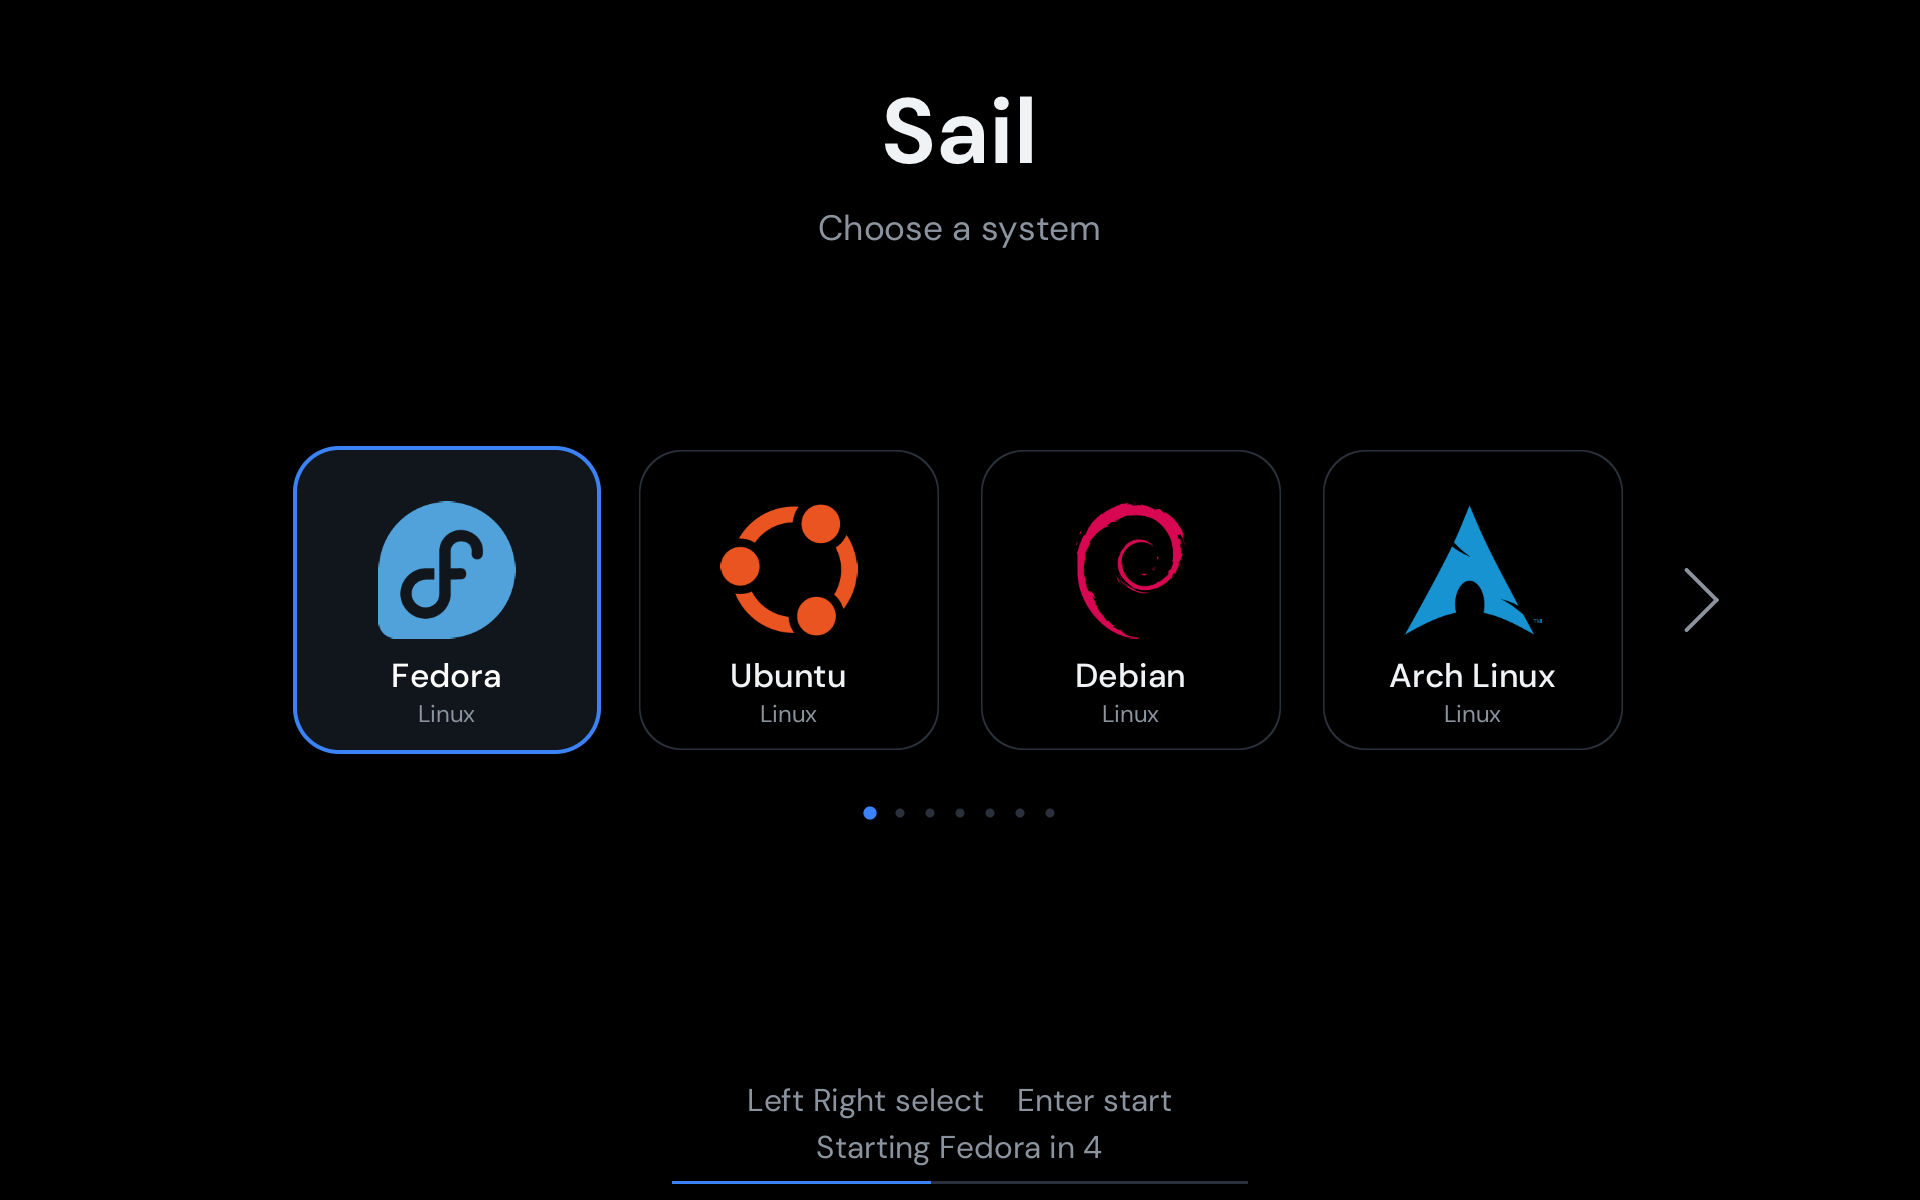
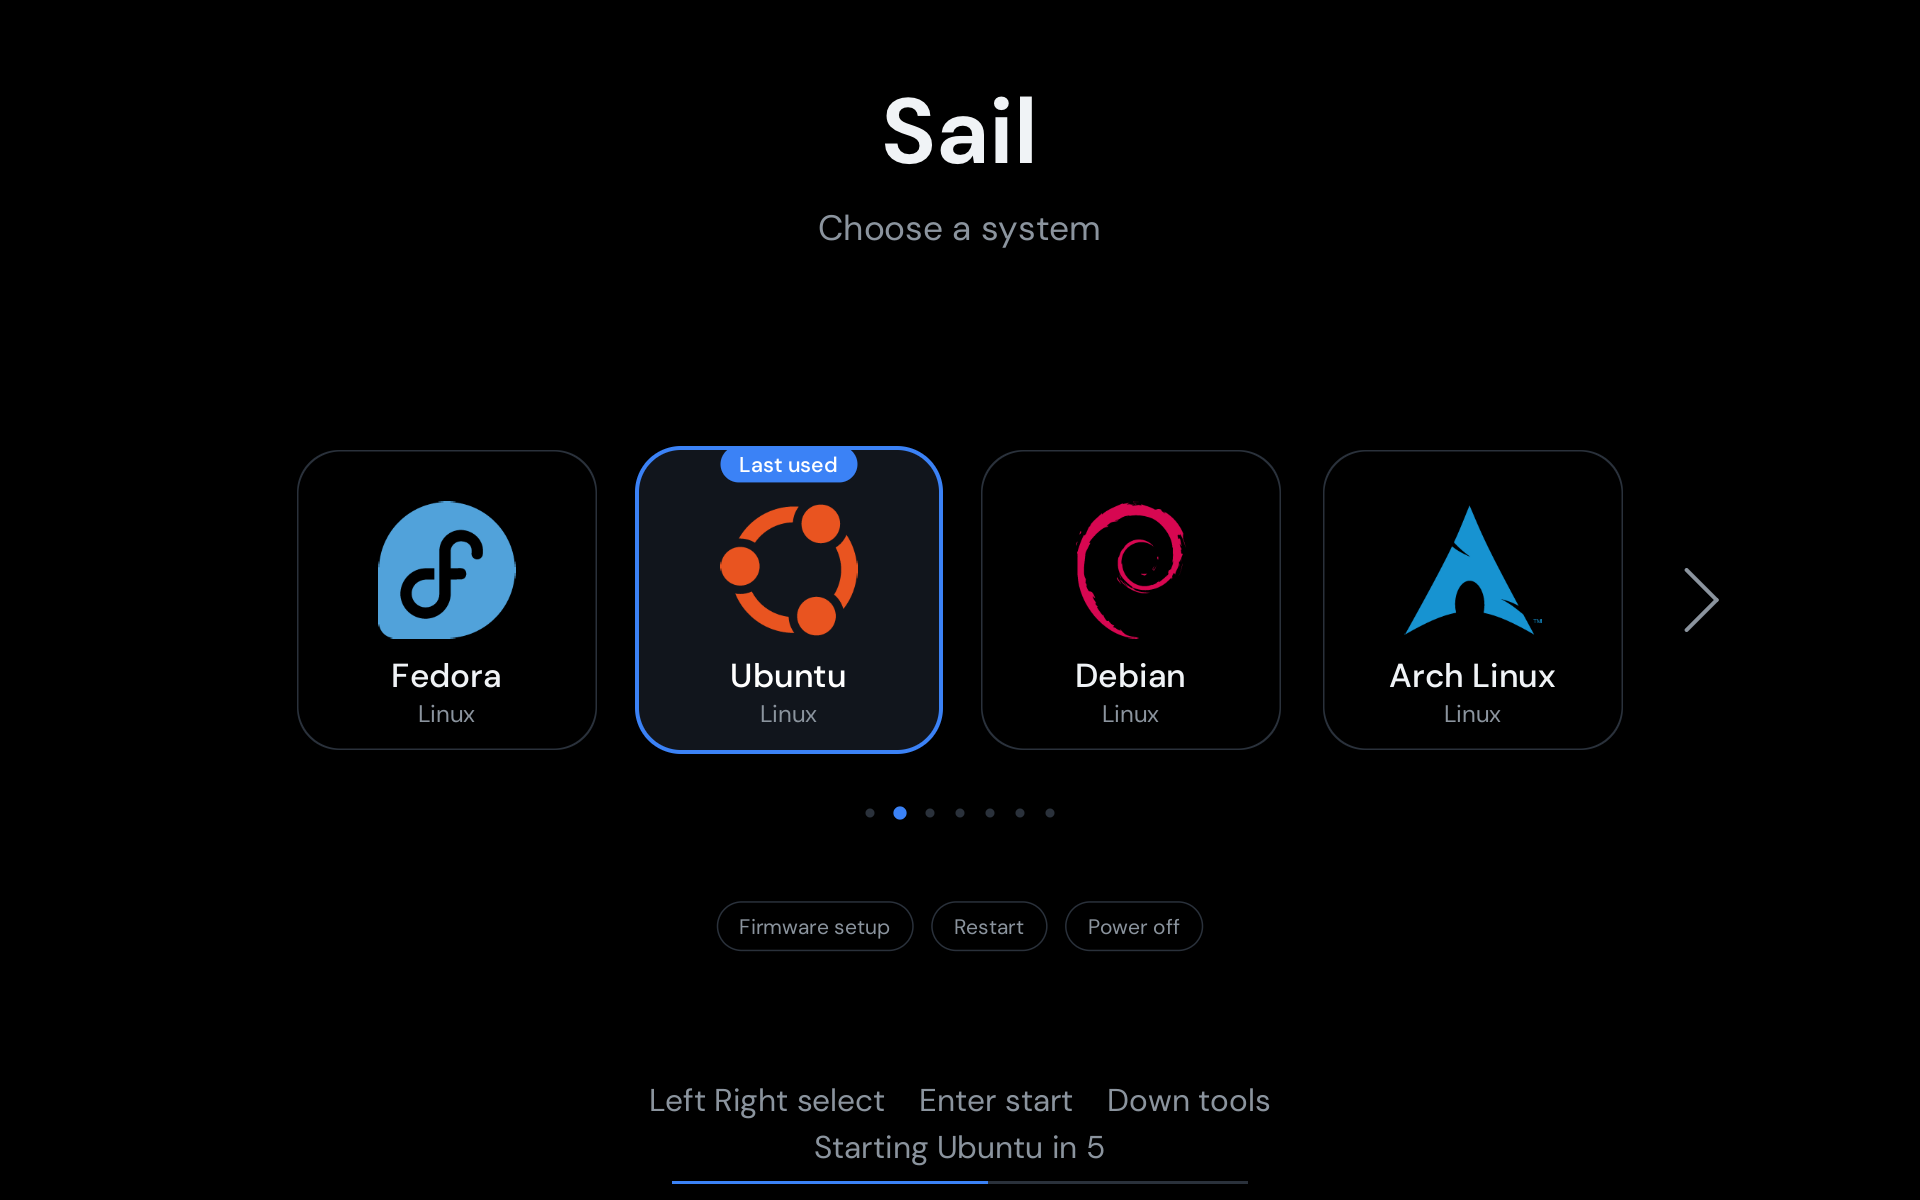
Last used marker, tool row (firmware setup, restart, power off)

diff --git a/src/main.rs b/src/main.rs
@@ -332,7 +332,7 @@ fn make_layout(w: usize, h: usize, n: usize) -> Layout {
     }
 }
 
-fn draw_tile(c: &mut Canvas, f: &Fonts, e: &Entry, x: f32, y: f32, tile: f32, on: bool) {
+fn draw_tile(c: &mut Canvas, f: &Fonts, e: &Entry, x: f32, y: f32, tile: f32, on: bool, last: bool) {
     let rad = tile * 0.14;
     if on {
         c.rounded(x - 4.0, y - 4.0, tile + 8.0, tile + 8.0, rad + 4.0, ACCENT);
@@ -346,16 +346,24 @@ fn draw_tile(c: &mut Canvas, f: &Fonts, e: &Entry, x: f32, y: f32, tile: f32, on
     let npx = (tile / 9.0).max(14.0);
     c.centered(&f.medium, e.name, cx, y + tile * 0.68, npx, if on { 0xffffff } else { TEXT });
     c.centered(&f.regular, e.note, cx, y + tile * 0.68 + npx * 1.35, npx * 0.72, MUTED);
+    if last {
+        let px = (tile / 14.0).max(11.0);
+        let tw = Canvas::measure(&f.medium, "Last used", px);
+        let (pw, ph) = (tw + px * 1.8, px * 1.7);
+        c.rounded(cx - pw / 2.0, y - 4.0, pw, ph, ph / 2.0, ACCENT);
+        c.text(&f.medium, "Last used", cx - tw / 2.0, y - 4.0 + (ph - px) / 2.0 - px * 0.12, px, 0xffffff);
+    }
 }
 
-fn make_sprites(f: &Fonts, items: &[Entry], l: &Layout) -> Vec<[Vec<BltPixel>; 2]> {
+fn make_sprites(f: &Fonts, items: &[Entry], l: &Layout, last: Option<usize>) -> Vec<[Vec<BltPixel>; 2]> {
     items
         .iter()
-        .map(|e| {
+        .enumerate()
+        .map(|(idx, e)| {
             let mut out = [Vec::new(), Vec::new()];
             for (k, on) in [false, true].into_iter().enumerate() {
                 let mut c = Canvas::new(l.side, l.side);
-                draw_tile(&mut c, f, e, 4.0, 4.0, l.tile as f32, on);
+                draw_tile(&mut c, f, e, 4.0, 4.0, l.tile as f32, on, last == Some(idx));
                 out[k] = c.buf;
             }
             out
@@ -444,16 +452,52 @@ fn paint_arrows_dots(c: &mut Canvas, l: &Layout, n: usize, offset: usize, select
     [(lx, ay, aw, ah), (rx, ay, aw, ah), (dx, dy, dw, (step * 2.0) as usize)]
 }
 
+const DOCK: [&str; 3] = ["Firmware setup", "Restart", "Power off"];
+
+fn dock_geometry(l: &Layout) -> (f32, f32) {
+    ((l.y0 + l.tile) as f32 + l.gap as f32 * 3.6, l.h as f32 / 24.0)
+}
+
+fn footer_top(l: &Layout) -> f32 {
+    let (y, h) = dock_geometry(l);
+    y + h + l.gap as f32 * 0.8
+}
+
+fn paint_dock(c: &mut Canvas, f: &Fonts, l: &Layout, focus: Option<usize>) -> (usize, usize, usize, usize) {
+    let (y, h) = dock_geometry(l);
+    let (rx, rw) = ((l.w as f32 * 0.15) as usize, (l.w as f32 * 0.7) as usize);
+    clear_rect(c, rx, (y - 4.0) as usize, rw, (h + 8.0) as usize);
+    let px = h * 0.42;
+    let pad = px * 1.1;
+    let gap = h * 0.35;
+    let widths: Vec<f32> = DOCK.iter().map(|t| Canvas::measure(&f.regular, t, px) + pad * 2.0).collect();
+    let total: f32 = widths.iter().sum::<f32>() + gap * (DOCK.len() as f32 - 1.0);
+    let mut x = (l.w as f32 - total) / 2.0;
+    for (i, t) in DOCK.iter().enumerate() {
+        let on = focus == Some(i);
+        if on {
+            c.rounded(x - 2.0, y - 2.0, widths[i] + 4.0, h + 4.0, h / 2.0 + 2.0, ACCENT);
+            c.rounded(x, y, widths[i], h, h / 2.0, PANEL);
+        } else {
+            c.rounded(x, y, widths[i], h, h / 2.0, LINE);
+            c.rounded(x + 1.5, y + 1.5, widths[i] - 3.0, h - 3.0, h / 2.0 - 1.5, BG);
+        }
+        c.centered(&f.regular, t, x + widths[i] / 2.0, y + (h - px) / 2.0 - px * 0.12, px, if on { 0xffffff } else { MUTED });
+        x += widths[i] + gap;
+    }
+    (rx, (y - 4.0) as usize, rw, (h + 8.0) as usize)
+}
+
 fn paint_footer(c: &mut Canvas, f: &Fonts, l: &Layout, items: &[Entry], selected: usize, left: Option<u32>, message: &str) -> (usize, usize, usize, usize) {
     let w = l.w as f32;
-    let top = (l.y0 + l.tile) as f32 + l.gap as f32 * 2.6;
+    let top = footer_top(l);
     let (rx, ry, rw) = ((l.w as f32 * 0.15) as usize, top as usize, (l.w as f32 * 0.7) as usize);
     let rh = (l.fy + l.fpx * 3.8 - top) as usize;
     clear_rect(c, rx, ry, rw, rh);
     if !message.is_empty() {
-        c.centered(&f.medium, message, w / 2.0, top, l.fpx, ERROR);
+        c.centered(&f.medium, message, w / 2.0, l.fy - l.fpx * 2.6, l.fpx, ERROR);
     }
-    let hint = if items.len() > 1 { "Left Right select    Enter start" } else { "Enter start" };
+    let hint = if items.len() > 1 { "Left Right select    Enter start    Down tools" } else { "Enter start    Down tools" };
     c.centered(&f.regular, hint, w / 2.0, l.fy, l.fpx, MUTED);
     if let Some(t) = left {
         if let Some(e) = items.get(selected) {
@@ -472,7 +516,7 @@ fn paint_footer(c: &mut Canvas, f: &Fonts, l: &Layout, items: &[Entry], selected
     (rx, ry, rw, rh)
 }
 
-fn paint_all(c: &mut Canvas, f: &Fonts, l: &Layout, items: &[Entry], sprites: &[[Vec<BltPixel>; 2]], selected: usize, offset: usize, left: Option<u32>, message: &str) {
+fn paint_all(c: &mut Canvas, f: &Fonts, l: &Layout, items: &[Entry], sprites: &[[Vec<BltPixel>; 2]], selected: usize, offset: usize, left: Option<u32>, message: &str, dock: Option<usize>) {
     c.clear();
     let (w, h) = (c.w as f32, c.h as f32);
     c.centered(&f.bold, "Sail", w / 2.0, h * 0.06, h / 13.0, TEXT);
@@ -480,10 +524,12 @@ fn paint_all(c: &mut Canvas, f: &Fonts, l: &Layout, items: &[Entry], sprites: &[
     if items.is_empty() {
         c.centered(&f.medium, "No systems found", w / 2.0, h * 0.45, h / 24.0, TEXT);
         c.centered(&f.regular, "Add a boot loader to the EFI partition", w / 2.0, h * 0.45 + h / 18.0, h / 38.0, MUTED);
+        paint_dock(c, f, l, dock);
         return;
     }
     paint_strip(c, l, sprites, selected, (offset * l.step) as f32);
     paint_arrows_dots(c, l, items.len(), offset, selected);
+    paint_dock(c, f, l, dock);
     paint_footer(c, f, l, items, selected, left, message);
 }
 
@@ -502,7 +548,7 @@ fn paint_launching(c: &mut Canvas, f: &Fonts, l: &Layout, items: &[Entry], sprit
             c.dim(x0, sy, (x1 - x0 as i32) as usize, sh, 0.7);
         }
     }
-    let top = (l.y0 + l.tile) as f32 + l.gap as f32 * 2.6;
+    let top = footer_top(l);
     let (rx, ry, rw) = ((l.w as f32 * 0.15) as usize, top as usize, (l.w as f32 * 0.7) as usize);
     let rh = (l.fy + l.fpx * 3.8 - top) as usize;
     clear_rect(c, rx, ry, rw, rh);
@@ -539,6 +585,41 @@ fn tick() {
     boot::stall(Duration::from_millis(10));
 }
 
+const SAIL_VENDOR: uefi::runtime::VariableVendor = uefi::runtime::VariableVendor(uefi::guid!("5a11e000-0000-4000-8000-000000000001"));
+
+fn nv_attrs() -> uefi::runtime::VariableAttributes {
+    uefi::runtime::VariableAttributes::NON_VOLATILE | uefi::runtime::VariableAttributes::BOOTSERVICE_ACCESS | uefi::runtime::VariableAttributes::RUNTIME_ACCESS
+}
+
+fn load_last(items: &[Entry]) -> Option<usize> {
+    let (data, _) = uefi::runtime::get_variable_boxed(cstr16!("SailLast"), &SAIL_VENDOR).ok()?;
+    items.iter().position(|e| e.name.as_bytes() == &data[..])
+}
+
+fn save_last(name: &str) {
+    let _ = uefi::runtime::set_variable(cstr16!("SailLast"), &SAIL_VENDOR, nv_attrs(), name.as_bytes());
+}
+
+fn run_tool(i: usize) -> ! {
+    use uefi::runtime::{self, ResetType};
+    match i {
+        0 => {
+            let vendor = runtime::VariableVendor::GLOBAL_VARIABLE;
+            let mut cur = [0u8; 8];
+            if let Ok((data, _)) = runtime::get_variable_boxed(cstr16!("OsIndications"), &vendor) {
+                for (d, s) in cur.iter_mut().zip(data.iter()) {
+                    *d = *s;
+                }
+            }
+            cur[0] |= 1;
+            let _ = runtime::set_variable(cstr16!("OsIndications"), &vendor, nv_attrs(), &cur);
+            runtime::reset(ResetType::COLD, Status::SUCCESS, None)
+        }
+        1 => runtime::reset(ResetType::COLD, Status::SUCCESS, None),
+        _ => runtime::reset(ResetType::SHUTDOWN, Status::SUCCESS, None),
+    }
+}
+
 #[entry]
 fn main() -> Status {
     uefi::helpers::init().unwrap();
@@ -565,39 +646,58 @@ fn main() -> Status {
     let items = discover();
     let n = items.len();
     let l = make_layout(w, h, n);
-    let sprites = make_sprites(&fonts, &items, &l);
+    let last = load_last(&items);
+    let sprites = make_sprites(&fonts, &items, &l, last);
 
-    let mut selected = 0usize;
-    let mut offset = 0usize;
+    let mut selected = last.unwrap_or(0);
+    let mut offset = if selected >= VISIBLE { selected + 1 - VISIBLE } else { 0 };
+    let mut dock: Option<usize> = None;
     let mut left: Option<u32> = if n == 0 { None } else { Some(COUNTDOWN_TENTHS) };
     let mut message = String::new();
     let mut ticks = 0u32;
 
-    paint_all(&mut canvas, &fonts, &l, &items, &sprites, selected, offset, left, &message);
+    paint_all(&mut canvas, &fonts, &l, &items, &sprites, selected, offset, left, &message, dock);
     blit_rect(&mut gop, &canvas, 0, 0, w, h);
 
     loop {
         let key = system::with_stdin(|i| i.read_key()).ok().flatten();
         let mut go = false;
         if let Some(k) = key {
-            let old = selected;
-            let old_offset = offset;
+            let (old, old_offset, old_dock) = (selected, offset, dock);
             left = None;
             message.clear();
             match k {
-                Key::Special(ScanCode::RIGHT) => selected = (selected + 1) % n.max(1),
-                Key::Special(ScanCode::LEFT) => selected = (selected + n.max(1) - 1) % n.max(1),
+                Key::Special(ScanCode::DOWN) => {
+                    if dock.is_none() {
+                        dock = Some(0)
+                    }
+                }
+                Key::Special(ScanCode::UP) => dock = None,
+                Key::Special(ScanCode::RIGHT) => match dock {
+                    Some(d) => dock = Some((d + 1) % DOCK.len()),
+                    None => selected = (selected + 1) % n.max(1),
+                },
+                Key::Special(ScanCode::LEFT) => match dock {
+                    Some(d) => dock = Some((d + DOCK.len() - 1) % DOCK.len()),
+                    None => selected = (selected + n.max(1) - 1) % n.max(1),
+                },
                 Key::Printable(c) => {
                     let ch = char::from(c);
                     if ch == '\r' {
-                        go = n > 0;
-                    } else if let Some(d) = ch.to_digit(10) {
-                        if d >= 1 && (d as usize) <= n { selected = d as usize - 1 }
+                        match dock {
+                            Some(d) => run_tool(d),
+                            None => go = n > 0,
+                        }
+                    } else if let (Some(d), None) = (ch.to_digit(10), dock) {
+                        if d >= 1 && (d as usize) <= n {
+                            selected = d as usize - 1
+                        }
                     }
                 }
                 _ => {}
             }
             if n > 0 {
+                let sel_eff = if dock.is_some() { usize::MAX } else { selected };
                 if selected < offset { offset = selected }
                 if selected >= offset + VISIBLE { offset = selected + 1 - VISIBLE }
                 let (sx, sy, sw, sh) = strip_rect(&l);
@@ -607,12 +707,15 @@ fn main() -> Status {
                     for fr in 1..=FRAMES {
                         let t = fr as f32 / FRAMES as f32;
                         let e = 1.0 - (1.0 - t) * (1.0 - t) * (1.0 - t);
-                        paint_strip(&mut canvas, &l, &sprites, selected, from + (to - from) * e);
+                        paint_strip(&mut canvas, &l, &sprites, sel_eff, from + (to - from) * e);
                         blit_rect(&mut gop, &canvas, sx, sy, sw, sh);
                         boot::stall(Duration::from_millis(8));
                     }
+                } else if dock != old_dock {
+                    paint_strip(&mut canvas, &l, &sprites, sel_eff, (offset * l.step) as f32);
+                    blit_rect(&mut gop, &canvas, sx, sy, sw, sh);
                 } else if selected != old {
-                    paint_strip(&mut canvas, &l, &sprites, selected, (offset * l.step) as f32);
+                    paint_strip(&mut canvas, &l, &sprites, sel_eff, (offset * l.step) as f32);
                     for i in [old, selected] {
                         let x = tile_x(&l, i, (offset * l.step) as f32).max(sx as i32) as usize;
                         blit_rect(&mut gop, &canvas, x, sy, l.side, sh);
@@ -621,9 +724,11 @@ fn main() -> Status {
                 for (x, y, rw, rh) in paint_arrows_dots(&mut canvas, &l, n, offset, selected) {
                     blit_rect(&mut gop, &canvas, x, y, rw, rh);
                 }
-                let (x, y, rw, rh) = paint_footer(&mut canvas, &fonts, &l, &items, selected, left, &message);
-                blit_rect(&mut gop, &canvas, x, y, rw, rh);
             }
+            let (x, y, rw, rh) = paint_dock(&mut canvas, &fonts, &l, dock);
+            blit_rect(&mut gop, &canvas, x, y, rw, rh);
+            let (x, y, rw, rh) = paint_footer(&mut canvas, &fonts, &l, &items, selected, left, &message);
+            blit_rect(&mut gop, &canvas, x, y, rw, rh);
         } else if let Some(t) = left {
             ticks += 1;
             if ticks >= 10 {
@@ -641,11 +746,12 @@ fn main() -> Status {
             for (x, y, rw, rh) in paint_launching(&mut canvas, &fonts, &l, &items, &sprites, selected, offset) {
                 blit_rect(&mut gop, &canvas, x, y, rw, rh);
             }
+            save_last(items[selected].name);
             if let Err(e) = start(&items[selected]) {
                 message = alloc::format!("Could not start {}: {}", items[selected].name, e);
                 left = None;
             }
-            paint_all(&mut canvas, &fonts, &l, &items, &sprites, selected, offset, left, &message);
+            paint_all(&mut canvas, &fonts, &l, &items, &sprites, selected, offset, left, &message, dock);
             blit_rect(&mut gop, &canvas, 0, 0, w, h);
         }
         tick();

diff --git a/README.md b/README.md
@@ -4,7 +4,7 @@ A graphical UEFI boot menu with big tiles, written in Rust. It finds the systems
 
 ![Sail showing four of seven boot tiles](docs/preview.png)
 
-*A QEMU run with stand-in entries.*
+*A QEMU run with stand-in entries; Ubuntu was the last system started.*
 
 > **Experimental.** Sail is a boot loader, and a mistake can leave a machine that will not boot. It has been tested on one machine only (a Lenovo ThinkStation P620 with Fedora and Windows 11, Secure Boot on). Keep a recovery USB and do not try it on a machine you cannot repair.
 
@@ -12,12 +12,14 @@ A graphical UEFI boot menu with big tiles, written in Rust. It finds the systems
 
 - Finds Fedora, Windows, Ubuntu, Debian, Arch Linux, openSUSE and Linux Mint on any disk, plus any other disk that has `\EFI\BOOT\BOOTX64.EFI`.
 - Four tiles in view, scrolling for more. Keys: Left and Right, number keys, Enter.
+- Remembers the last system you started: it gets a "Last used" pill and the countdown starts on it.
+- A row of tools under the tiles (press Down): Firmware setup, Restart and Power off.
 - Countdown of 8 seconds on the first tile; any key stops it.
 - Starts a system by chainloading its own EFI file. It never edits or replaces another boot loader.
 - Draws at up to 1920x1200, even on a 4K screen, to stay fast.
 - Works with Secure Boot through shim and a key you enroll yourself (MOK).
 
-**Not included:** reading GRUB menus, kernel options, saving the last choice, or managing boot entries. Linux systems start through their own shim and GRUB. x86_64 UEFI only.
+**Not included:** reading GRUB menus, kernel options, or managing boot entries. Linux systems start through their own shim and GRUB. x86_64 UEFI only.
 
 ## Build
 
